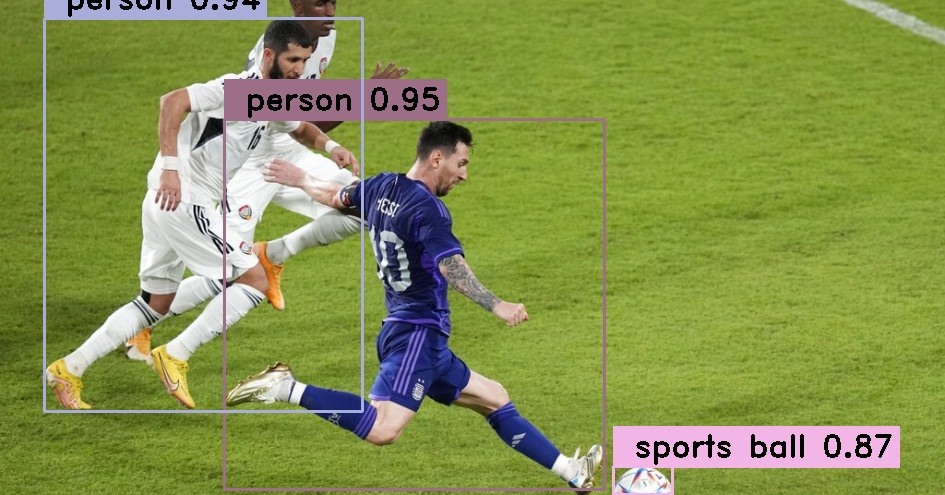
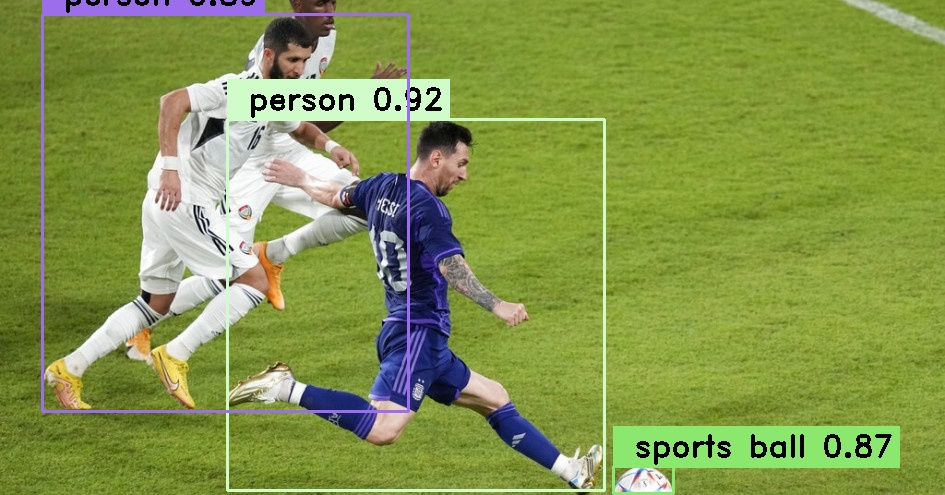
update

Changed region(s): [[0.0307, 0.0, 0.9513, 1.0], [0.4296, 0.7879, 0.4603, 0.8182]]

diff --git a/main.cpp b/main.cpp
@@ -5,7 +5,8 @@
 #include <fstream>
 #include "inference.h"
 
-std::filesystem::path projectRoot = std::filesystem::current_path().parent_path();
+
+
 
 std::vector<DL_RESULT> Inference(
     const std::string& imagePath, 
@@ -80,24 +81,32 @@ std::vector<DL_RESULT> Inference(
 
 
 void Test() {
-    std::string model = "yolov8x.onnx"; // 可以通过修改模型名称后缀来选择检测或分割
-    // std::string model = "yolov8s-seg.onnx";
-    // std::string model = "yibo_train_cls_best.onnx";
+    std::filesystem::path projectRoot = std::filesystem::current_path().parent_path();
+
+    std::string model = "yolov8s.onnx"; // object detection
+    // std::string model = "yolov8s-seg.onnx"; // instance segmentation
+    // std::string model = "yibo_train_cls_best.onnx"; // object classification
     std::string modelPath = projectRoot / "models" / model;
 
     std::string imagePath = projectRoot / "images/16.jpg";
-    std::string yamlPath = projectRoot / "configs/coco.yaml";
-    // std::string yamlPath = projectRoot / "configs/classnames.yaml";
+
+    std::string yamlPath = projectRoot / "configs/coco.yaml"; // detect or segment choose it
+    // std::string yamlPath = projectRoot / "configs/classnames.yaml"; //classify choose it
+
     cv::Size imageSize(640, 640); 
+
     // MODEL_TYPE modelType = YOLO_CLS_V8;
     MODEL_TYPE modelType = YOLO_DET_SEG_V8;
+    
     float rectConfidenceThreshold = 0.3;
     float iouThreshold = 0.5;
-    bool useGPU = true;
+    bool useGPU = false;
 
     std::cout << "[YOLO_V8]: Infering image: " << imagePath << std::endl;
+    std::cout << "[YOLO_V8]: Infer model: " << model << std::endl;
 
     std::vector<DL_RESULT> results = Inference(imagePath, modelType, modelPath, yamlPath, imageSize, rectConfidenceThreshold, iouThreshold, useGPU);
+
     cv::Mat image = cv::imread(imagePath);
     if (image.empty()) {
         std::cerr << "[YOLO_V8]: Failed to load image" << std::endl;
@@ -122,15 +131,13 @@ void Test() {
             cv::Scalar color = detection.color;
             // Detection box
             cv::rectangle(image, box, color, 2);
-
             mask(detection.box).setTo(color, detection.boxMask);
-
             // Detection box text
             std::string classString = detection.className + ' ' + std::to_string(detection.confidence).substr(0, 4);
             cv::Size textSize = cv::getTextSize(classString, cv::FONT_HERSHEY_DUPLEX, 1, 2, 0);
             cv::Rect textBox(box.x, box.y - 40, textSize.width + 10, textSize.height + 20);
             cv::rectangle(image, textBox, color, cv::FILLED);
-            cv::putText(image, classString, cv::Point(box.x + 5, box.y - 10), cv::FONT_HERSHEY_DUPLEX, 1, cv::Scalar(0, 0, 0), 2, 0);
+            cv::putText(image, classString, cv::Point(box.x + 5, box.y - 10), cv::FONT_HERSHEY_DUPLEX, 1, cv::Scalar(0, 0, 0), 2);
 
         }
         // Detection mask
@@ -152,7 +159,7 @@ void Test() {
         for (const auto& result : results) {
             std::cout << "[YOLO_V8]: Class:" << result.className << ", Confidence: " << result.confidence << std::endl;
             std::string text = result.className + " " + std::to_string(result.confidence).substr(0, 4);
-            cv::putText(image, text, cv::Point(10, 30), cv::FONT_HERSHEY_SIMPLEX, 1, cv::Scalar(0, 0, 0), 2, 8);
+            cv::putText(image, text, cv::Point(10, 30), cv::FONT_HERSHEY_SIMPLEX, 1, cv::Scalar(0, 0, 0), 2);
 
         }
 
@@ -164,6 +171,9 @@ void Test() {
 }
 
 int main() {
+    // ParseCommandLine(argc, argv);
     Test();
     return 0;
 }
+
+

diff --git a/inference.cpp b/inference.cpp
@@ -153,31 +153,31 @@ void GetMask(const int* const _seg_params, const float& rectConfidenceThreshold,
 }
 
 
-void YOLO_V8::DrawPred(cv::Mat& img, std::vector<DL_RESULT>& result) {
-    std::filesystem::path projectRoot = std::filesystem::current_path().parent_path();
+// void YOLO_V8::DrawPred(cv::Mat& img, std::vector<DL_RESULT>& result) {
+//     std::filesystem::path projectRoot = std::filesystem::current_path().parent_path();
 
-    int detections = result.size();
-    cout << "Number of detections:" << detections << endl;
-    cv::Mat mask = img.clone();
-    for (int i = 0; i < detections; ++i)
-    {
-        DL_RESULT detection = result[i];
-        cv::Rect box = detection.box;
-        cv::Scalar color = detection.color;
-        // Detection bbox
-        cv::rectangle(img, box, color, 2);
-        mask(detection.box).setTo(color, detection.boxMask);
-        // Detection bbox text
-        std::string classString = detection.className + ' ' + std::to_string(detection.confidence).substr(0, 4);
-        cv::Size textSize = cv::getTextSize(classString, cv::FONT_HERSHEY_DUPLEX, 1, 2, 0);
-        cv::Rect textBox(box.x, box.y - 40, textSize.width + 10, textSize.height + 20);
-        cv::rectangle(img, textBox, color, cv::FILLED);
-        cv::putText(img, classString, cv::Point(box.x + 5, box.y - 10), cv::FONT_HERSHEY_DUPLEX, 1, cv::Scalar(0, 0, 0), 2, 0);
-    }
-    // Detection mask
-    if(runSegmentation) cv::addWeighted(img, 0.5, mask, 0.5, 0, img); //将mask加在原图上面
-    cv::imwrite(projectRoot / "output/out.jpg", img);
-}
+//     int detections = result.size();
+//     cout << "Number of detections:" << detections << endl;
+//     cv::Mat mask = img.clone();
+//     for (int i = 0; i < detections; ++i)
+//     {
+//         DL_RESULT detection = result[i];
+//         cv::Rect box = detection.box;
+//         cv::Scalar color = detection.color;
+//         // Detection bbox
+//         cv::rectangle(img, box, color, 2);
+//         mask(detection.box).setTo(color, detection.boxMask);
+//         // Detection bbox text
+//         std::string classString = detection.className + ' ' + std::to_string(detection.confidence).substr(0, 4);
+//         cv::Size textSize = cv::getTextSize(classString, cv::FONT_HERSHEY_DUPLEX, 1, 2, 0);
+//         cv::Rect textBox(box.x, box.y - 40, textSize.width + 10, textSize.height + 20);
+//         cv::rectangle(img, textBox, color, cv::FILLED);
+//         cv::putText(img, classString, cv::Point(box.x + 5, box.y - 10), cv::FONT_HERSHEY_DUPLEX, 1, cv::Scalar(0, 0, 0), 2, 0);
+//     }
+//     // Detection mask
+//     if(runSegmentation) cv::addWeighted(img, 0.5, mask, 0.5, 0, img); //将mask加在原图上面
+//     cv::imwrite(projectRoot / "output/out.jpg", img);
+// }
 
  
 char* YOLO_V8::CreateSession(DL_INIT_PARAM& iParams) {

diff --git a/inference.h b/inference.h
@@ -46,7 +46,7 @@ typedef struct _DL_RESULT
     std::string className;
     float confidence;
     cv::Rect box;
-    cv::Mat boxMask; //矩形框内mask
+    cv::Mat boxMask; //detect矩形框内mask
     cv::Scalar color;
 } DL_RESULT;
 
@@ -61,7 +61,7 @@ public:
 public:
     char* CreateSession(DL_INIT_PARAM& iParams);
 
-    void DrawPred(cv::Mat& img, std::vector<DL_RESULT>& result);
+    // void DrawPred(cv::Mat& img, std::vector<DL_RESULT>& result);
 
     char* RunSession(cv::Mat& iImg, std::vector<DL_RESULT>& oResult);
 
@@ -78,7 +78,9 @@ public:
     std::vector<std::string> classes{};
 
     bool cudaEnable;
+
     MODEL_TYPE modelType;
+
     std::vector<int> imgSize;
 
 
